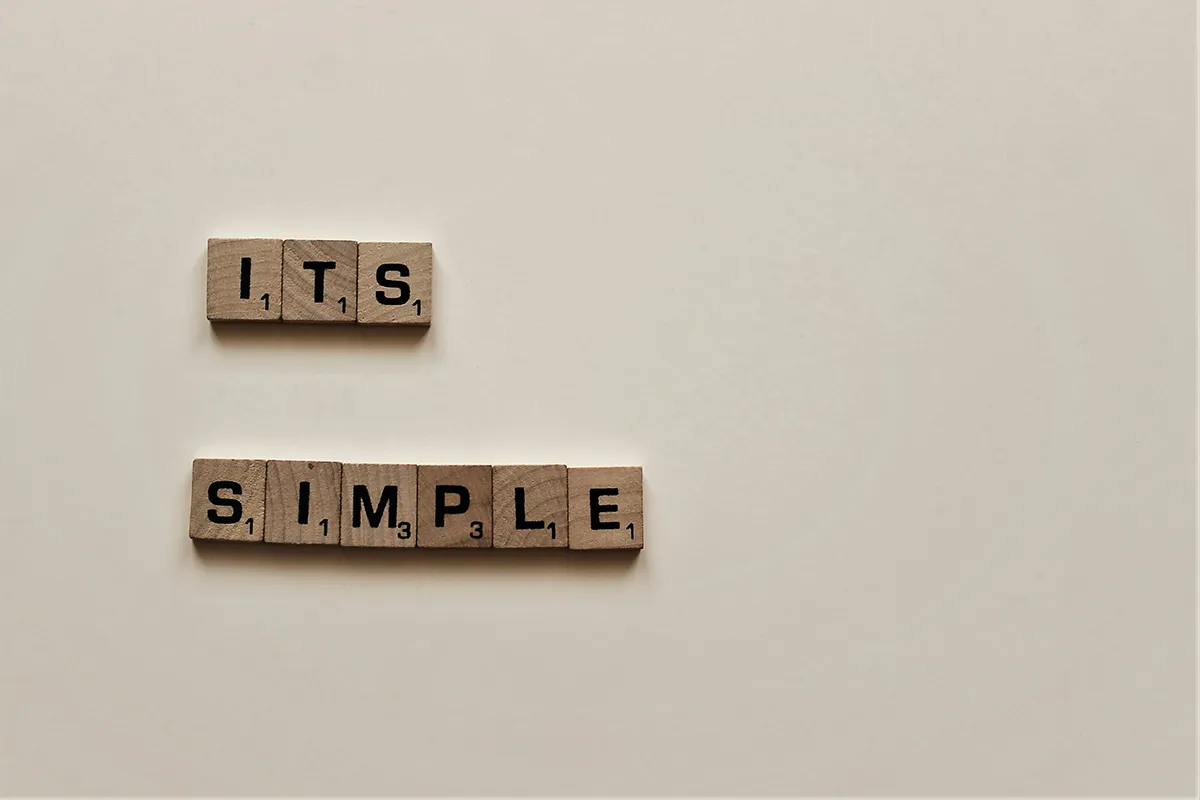
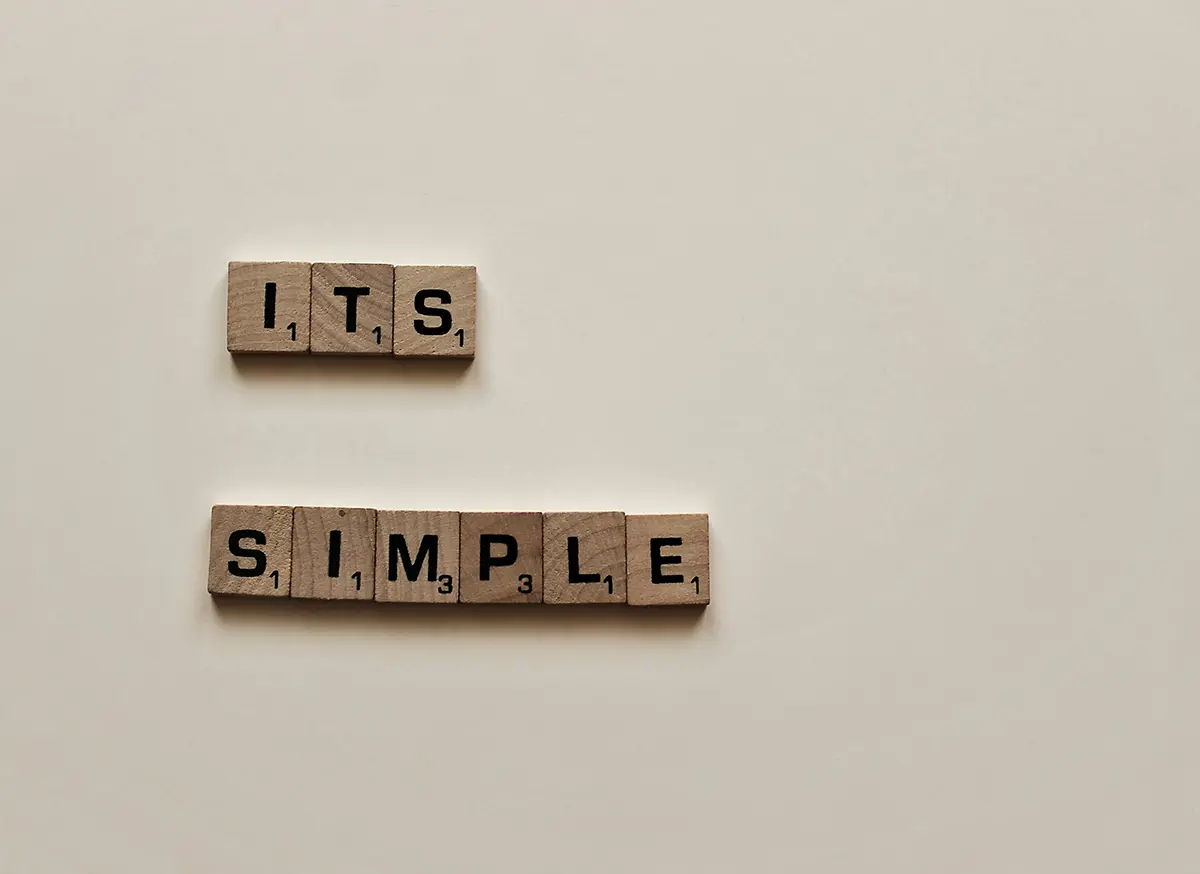
Blog tweaks

Changed region(s): [[0.1542, 0.5625, 0.6167, 0.75], [0.1542, 0.2812, 0.4008, 0.4688], [0.9867, 0.9688, 1.0, 1.0]]

diff --git a/src/_includes/layouts/post.html b/src/_includes/layouts/post.html
@@ -2,33 +2,32 @@
 layout: layouts/base.html
 ---
 
-<div class="body__content">
-  <header class="post__header accent--border">
-    <picture class="post__picture">
-      <img src="{{ post_img }}" class="post__img" alt="{{ post_imgAlt }}">
-    </picture>
 
-  </header>
-  <section class="post container container--md">
-    <h2 class="post__title">{{ title }}</h2>
+<header class="post__header accent--border">
+  <picture class="post__picture">
+    <img src="{{ post_img }}" class="post__img" alt="{{ post_imgAlt }}">
+  </picture>
+
+</header>
+<section class="post container container--md">
+  <h2 class="post__title">{{ title }}</h2>
+  <span class="accent--underline-accent"></span>
+  <aside class="post__meta">
+    Posted {{ date | date('MMMM d, yyyy') }} {% if categories %} <span class="post__categories">in {% for category
+      in categories %} {{
+      category }} {% endfor %}</span> {% endif
+    %}
+  </aside>
+  <div class="post__body">
+    {{ content | safe }}
+  </div>
+
+  <footer class="post__footer container container--sm">
     <span class="accent--underline-accent"></span>
-    <aside class="post__meta">
-      Posted {{ date | date('MMMM d, yyyy') }} {% if categories %} <span class="post__categories">in {% for category
-        in categories %} {{
-        category }} {% endfor %}</span> {% endif
-      %}
-    </aside>
-    <div class="post__body">
-      {{ content | safe }}
+    <div class="post__cta">
+      <h3>Enjoyed this post?</h3>
+      <p>I send occasional notes with gentle design tips and cozy recommendations.<br> <a href="#">Join the mailing
+          list</a> if you’d like to stay in touch.</p>
     </div>
-
-    <footer class="post__footer container container--sm">
-      <span class="accent--underline-accent"></span>
-      <div class="post__cta">
-        <h3>Enjoyed this post?</h3>
-        <p>I send occasional notes with gentle design tips and cozy recommendations.<br> <a href="#">Join the mailing
-            list</a> if you’d like to stay in touch.</p>
-      </div>
-    </footer>
-  </section>
-</div>
+  </footer>
+</section>

diff --git a/src/blog.html b/src/blog.html
@@ -1,10 +1,13 @@
 ---
-title: "Web Design, Graphic Design & Support Services for Nonprofits & Small Businesses"
+title: "Cozy Design Tips, Encouragement, and Resources for Nonprofits & Small Businesses"
+page_desc: "Thoughtful design ideas, cozy updates, and creative encouragement for small businesses, nonprofits, and kind
+humans doing good work."
 layout: layouts/base.html
 body_classes: blog
 ---
 
-{% set featured = collections.post[0] %}
+{% set posts = collections.post | reverse %}
+{% set featured = posts[0] %}
 <section class="hero hero--light blog__spotlight accent--border">
   <div class="container container--lg">
     <picture class="spotlight__picture">
@@ -15,7 +18,7 @@ body_classes: blog
       <h2 class="hero__headline hero__headline--primary spotlight__title"><a
           href="{{featured.url}}">{{featured.data.title}}</a></h2>
       <span class="accent accent--underline-accent"></span>
-      <p class="hero__copy spotlight__copy">{{ featured.templateContent | striptags | truncate(250, true, '...') }}</p>
+      <p class="hero__copy spotlight__copy">{{ featured.templateContent | striptags | truncate(275, true, '...') }}</p>
       <a class="btn btn--accent snippet__btn btn--wide" href="{{featured.url}}">Read More...</a>
     </div>
   </div>
@@ -25,7 +28,7 @@ body_classes: blog
 
 </section>
 <section class="blog-list cards container container--lg">
-  {%- for post in collections.post.slice(1) -%}
+  {%- for post in posts.slice(1) -%}
   <article class="blog-list__snippet card card--light card--shadow">
 
     <a href="{{ post.url }}"><img src="{{ post.data.post_img }}" alt="{{post.data.post__imgAlt}}"

diff --git a/src/css/includes/components/_posts.css b/src/css/includes/components/_posts.css
@@ -1,6 +1,6 @@
 .post__header {
   width: 100%;
-  height: 20rem;
+  height: 24rem;
   background: var(--color-lighter);
   position: relative;
 }
@@ -24,7 +24,7 @@
   object-fit: cover; /* important! it keeps it nice */
   width: 100%;
   max-width: 1200px;
-  height: 20rem;
+  height: 100%;
   margin: 0 auto;
   box-shadow: var(--shadow-subtle);
 }
@@ -64,6 +64,11 @@
 .post__body p {
   margin-bottom: 1.25rem;
   line-height: 1.7;
+}
+
+.post__body::first-line {
+  font-weight: bold;
+  color: var(--color-primary-med);
 }
 
 .post__body h3 {
@@ -190,6 +195,7 @@
 .blog__spotlight .container {
   min-height: 0;
   text-align: center;
+  gap: var(--space-10);
 }
 
 .spotlight__copy::first-line {

diff --git a/src/_includes/components/nav.html b/src/_includes/components/nav.html
@@ -9,8 +9,8 @@
         <li><a href="/" class="nav--home">Home</a></li>
         <li><a href="/about" class="nav--about">About</a></li>
         <li><a href="/services" class="nav--services">Services</a></li>
-        <li><a href="#" class="nav--blog">Blog</a></li>
-        <li><a href="#" class="nav--contact">Contact</a></li>
+        <li><a href="/blog" class="nav--blog">Blog</a></li>
+        <li><a href="/contact" class="nav--contact">Contact</a></li>
       </ul>
       <button id="nav__btn-wrap--close" class="nav__btn-wrap--close">
         <span class="sr-only">Close menu</span>

diff --git a/src/blog/2025-05-02-no-pressure.md b/src/blog/2025-05-02-no-pressure.md
@@ -1,6 +1,6 @@
 ---
 title: 'How to Get Design Help Without the Pressure'
-date: 2025-05-03
+date: 2025-05-02
 permalink: '/blog/how-to-get-design-help/'
 post_img: /img/posts/design.webp
 post_imgAlt: 'Aesthetic magazine covers about design'
@@ -10,18 +10,18 @@ categories:
 
 Not everyone’s ready to hire a designer full-time. That doesn’t mean you don’t deserve support. Whether you’re juggling a newsletter, scrambling to resize an image for print, or just tired of guessing if your logo is the right file type, design credits can be a soft landing — support when you need it, no commitment required.
 
-## Design Help That Fits Your Workflow
+### Design Help That Fits Your Workflow
 
 Sometimes you just need a few things handled — not a full branding overhaul or a six-month retainer. Design credits let you request the help you need, when you need it, without locking yourself into a schedule or subscription.  
 It is support on your terms.
 
-## Flexible, Friendly, and Stress-Free
+### Flexible, Friendly, and Stress-Free
 
 With design credits, you can send requests as you have them.  
 Need a flyer cleaned up? A website banner resized? A few tweaks to your sponsorship deck?  
 You can use your hours however it makes the most sense for you and your organization.
 
-## Support Without the Overwhelm
+### Support Without the Overwhelm
 
 Design credits are perfect if you want professional design without the heavy lift of managing a big project. They give you breathing room to focus on the parts of your work that matter most.  
 Because good design should feel like a relief — not another item on your to-do list.

diff --git a/src/blog/2025-05-03-flyer.md b/src/blog/2025-05-03-flyer.md
@@ -10,16 +10,16 @@ categories:
 
 You know the one. You’re trying to update last year’s event flyer, but the file is somewhere in a mystery email thread from two laptops ago. And it’s probably the wrong format anyway. That’s why I started offering brand asset organization — because digging through digital clutter doesn’t need to be part of your job description.
 
-## What Is Brand Asset Organization?
+### What Is Brand Asset Organization?
 
 Brand asset organization is a simple but powerful service where I gather your logos, graphics, brand fonts, and any other key files into one easy-to-use folder. Everything is labeled clearly, formatted correctly, and ready when you need it.
 
-## Why It Matters More Than You Think
+### Why It Matters More Than You Think
 
 Having your brand files organized saves you more time (and stress) than you might expect.  
 Instead of second-guessing whether you have the right version of your logo, you can just open your folder and find exactly what you need — no digging, no resizing, no crossed fingers.
 
-## Future You Will Be So Grateful
+### Future You Will Be So Grateful
 
 Imagine getting a sponsorship request, a last-minute event invitation, or a new partnership opportunity — and feeling ready.  
 Organized brand assets are a small thing that make a big difference, and your future self will thank you every time you save yourself an hour of frantic searching.

diff --git a/src/blog/2025-05-01-why-simple.md b/src/blog/2025-05-01-why-simple.md
@@ -1,6 +1,6 @@
 ---
 title: 'Why “Simple” Doesn’t Always Mean Easy'
-date: 2025-05-02
+date: 2025-05-01
 permalink: '/blog/why-simple-doesnt-always-mean/'
 post_img: /img/posts/its-simple.webp
 post_imgAlt: 'Scrabble tiles spelling out the words Its Simple'
@@ -8,7 +8,7 @@ categories:
   - Design
 ---
 
-**When a client says, “I just need something simple,”** I always smile because I get it. You’re not looking for flashy. You just want something that works, feels right, and doesn’t take three meetings to figure out. But here’s the thing: simple isn’t always easy. And making something feel effortless often takes... well, effort.
+When a client says, “I just need something simple,” I always smile because I get it. You’re not looking for flashy. You just want something that works, feels right, and doesn’t take three meetings to figure out. But here’s the thing: simple isn’t always easy. And making something feel effortless often takes... well, effort.
 
 ### Simplicity Takes Strategy
 
